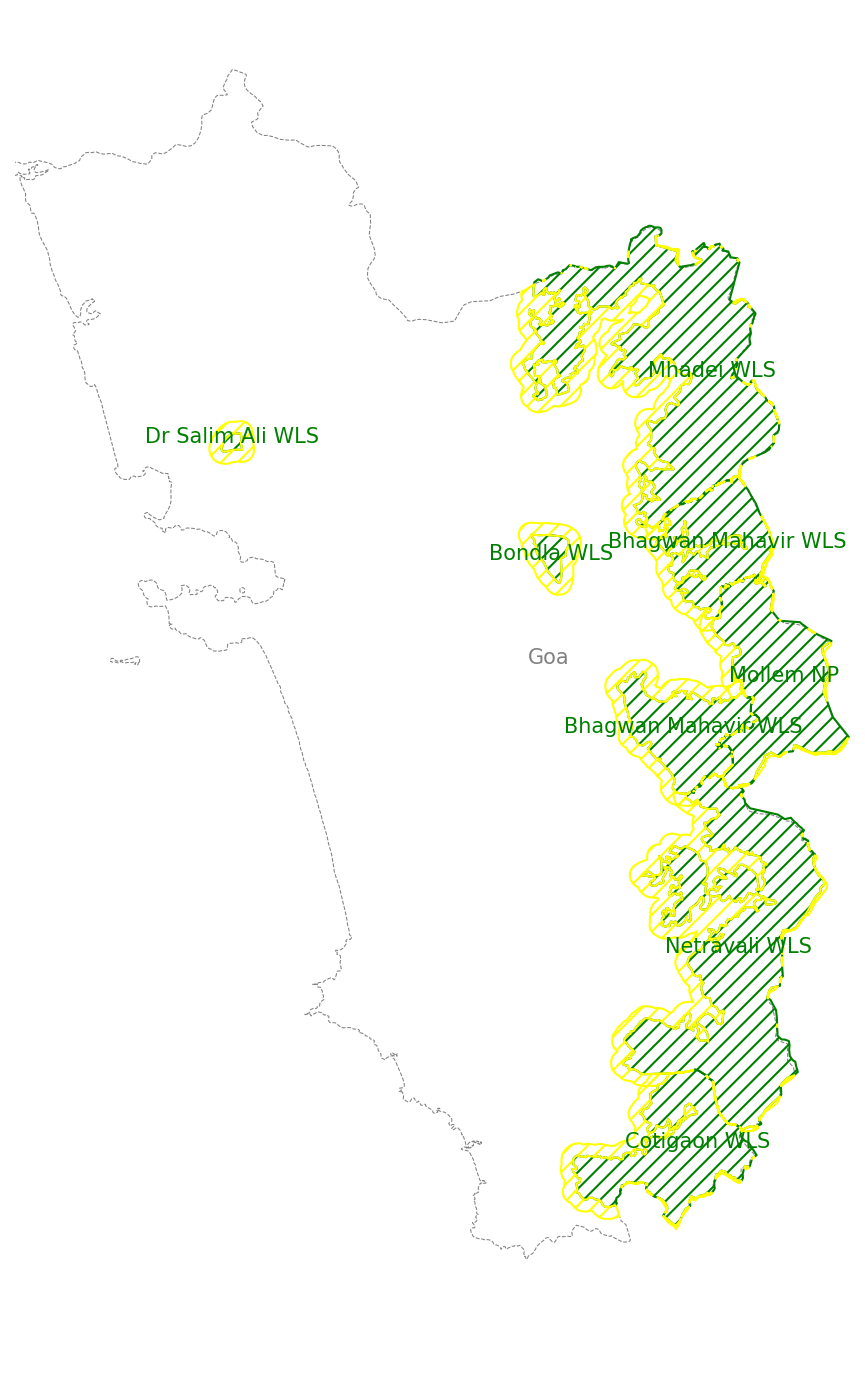
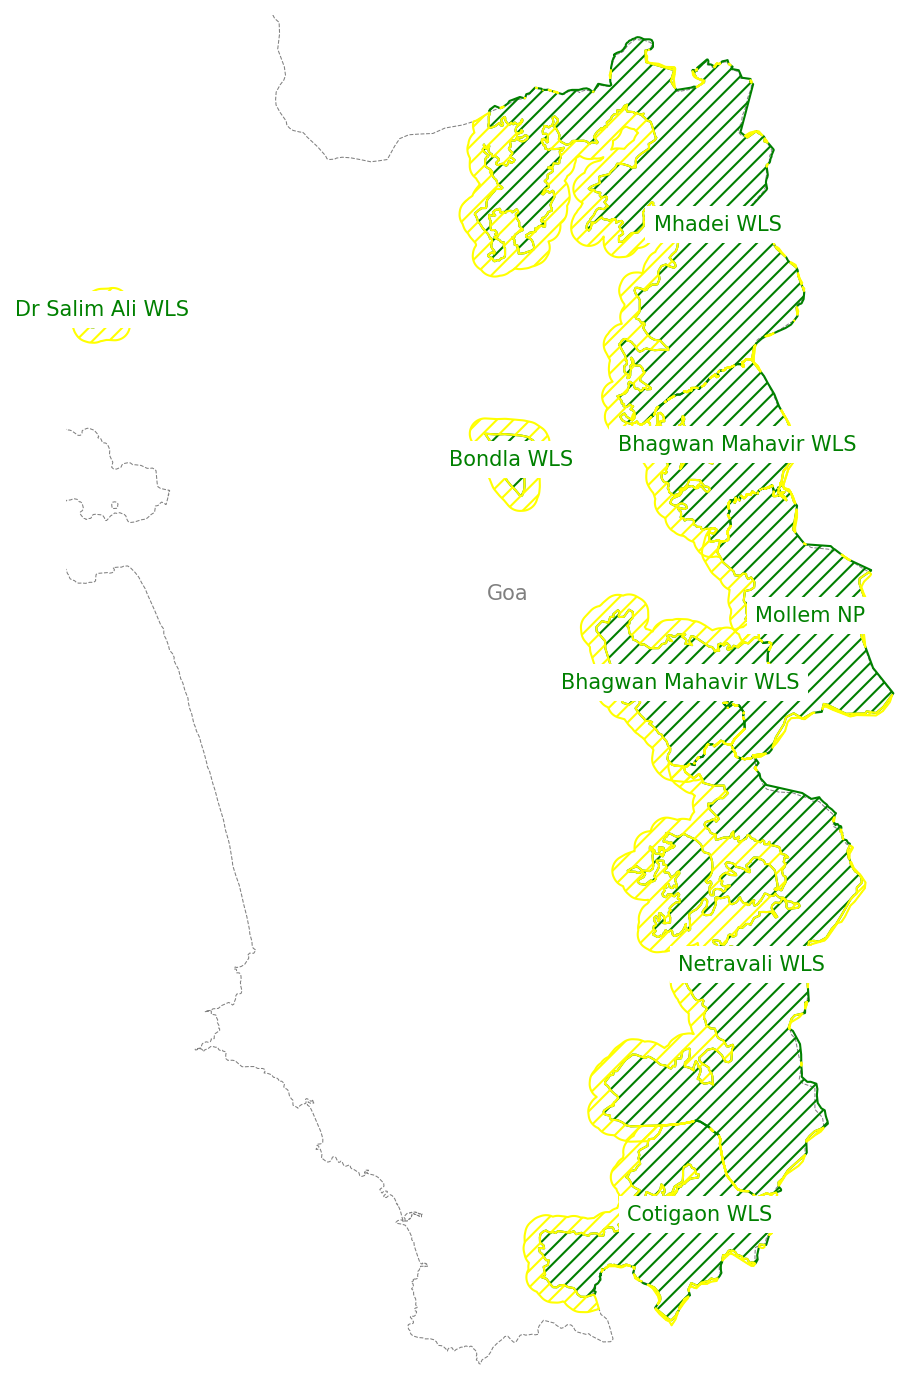
Added all PA & buffer maps and methods for generating them. On branch main Your branch is up to date with 'origin/main'.
Changes to be committed:
	modified:   methods.md
	new file:   pngs/0_Mhadei_WLS.png
	new file:   pngs/1_Bhagwan_Mahavir_WLS.png
	new file:   pngs/2_Mollem_NP.png
	new file:   pngs/3_Bhagwan_Mahavir_WLS.png
	new file:   pngs/4_Bondla_WLS.png
	new file:   pngs/5_Netravali_WLS.png
	new file:   pngs/6_Cotigaon_WLS.png
	new file:   pngs/7_Dr_Salim_Ali_WLS.png
	modified:   pngs/state_wide_pas_buffers.png

diff --git a/methods.md b/methods.md
@@ -4,10 +4,18 @@ The following data preparation was done in Python using the following packages a
 
 - geopandas
 - matplotlib
+- glob
 
 I used the interactive shell IPython as it allows for a richer visual experience and provides methods for previewing maps and graphs.
 
-## 1 - Protected area, buffer & village polygons
+Data is drawn from:
+
+- _Who made the PA polygons?_
+- [the SHRUG](https://www.devdatalab.org/shrug)
+
+## 1 - Protected area, buffer & village/town polygons
+
+### 1.1 - Protected area & buffer polygons
 
 In order to capture meaningful land cover changes we first need to create useful polygons to define areas of interest. I started with the shapefile "Notified_PA_Goa" created by \_\_\_\_ for each of the 7 notified protected areas:
 
@@ -23,30 +31,30 @@ In order to capture meaningful land cover changes we first need to create useful
 \* as per the shapefile Bhagwan Mahavir Wildlife Sanctuary is made up of 2 non-contiguous polygons. They will be treated independently for this analysis.
 
 ```
-In [1]: import geopandas as gp
+import geopandas as gp
 
-In [2]: pas = gp.read_file('data/Goa_protected_areas/Notified_PA_Goa.shp')
+pas = gp.read_file('data/Goa_protected_areas/Notified_PA_Goa.shp')
 
-In [3]: pas.columns.to_list()
+pas.columns.to_list()
 Out[3]: ['Shape_Leng', 'Shape_Area', 'Name', 'geometry']
 
-In [5]: pas = pas.drop(columns=['Shape_Leng', 'Shape_Area'])
+pas = pas.drop(columns=['Shape_Leng', 'Shape_Area'])
 
-In [6]: pas.Name
+pas.Name
 ```
 
 In order to consistently reference a single polygon the "Name" column of the dataset needs to be unique.
 
 ```
-In [7]: pas = pas.rename(columns={'Name': 'name'})
+pas = pas.rename(columns={'Name': 'name'})
 
-In [8]: pas = pas.reset_index()
+pas = pas.reset_index()
 
-In [9]: pas['index'] = pas['index'].astype(str)
+pas['index'] = pas['index'].astype(str)
 
-In [10]: pas['name'] = pas['index'] + '_' + pas['name'].str.replace(' ', '_').str.replace('.', '')
+pas['name'] = pas['index'] + '_' + pas['name'].str.replace(' ', '_').str.replace('.', '')
 
-In [11]: pas.name
+pas.name
 ```
 
 Since all the areas of interest lie within the state of Goa, I have chosen to use the coordinate reference system [EPSG:7779](https://spatialreference.org/ref/epsg/7779/).
@@ -54,17 +62,17 @@ Since all the areas of interest lie within the state of Goa, I have chosen to us
 The "geometry" column represents the boundaries of the PAs not including the 1,000 m buffers. Therefore, the buffers would be the set of polygons extending from the current geometry columns outward 1,000 m. The polygons include a Z axis which is not relevant for the current analysis.
 
 ```
-In [12]: pas = pas.rename(columns={'geometry': 'pa'})
+pas = pas.rename(columns={'geometry': 'pa'})
 
-In [13]: pas['pa'] = pas['pa'].force_2d()
+pas['pa'] = pas['pa'].force_2d()
 
-In [14]: pas = pas.set_geometry('pa')
+pas = pas.set_geometry('pa')
 
-In [15]: pas = pas.to_crs('EPSG:7779')
+pas = pas.to_crs('EPSG:7779')
 
-In [16]: pas['buffer'] = pas['pa'].buffer(1000)
+pas['buffer'] = pas['pa'].buffer(1000)
 
-In [17]: pas['buffer'] = pas['buffer'].difference(pas['pa'])
+pas['buffer'] = pas['buffer'].difference(pas['pa'])
 ```
 
 The buffers constructed above do not take into account the fact that most of the PAs are contiguous and along Goa's eastern border. The buffers overlap each other, other PAs or fall outside the state. They need to be clipped account for these inconsistencies.
@@ -72,18 +80,18 @@ The buffers constructed above do not take into account the fact that most of the
 The state's boundaries are taken from [the SHRUG](https://www.devdatalab.org/shrug) and preprocessed to include only the polygon representing Goa in the correct CRS.
 
 ```
-In [17]: state = gp.read_feather('feathers/admin_units/state.feather')
+state = gp.read_feather('feathers/admin_units/state.feather')
 
-In [18]: state.index.names
+state.index.names
 
-In [19]: state.columns.to_list()
+state.columns.to_list()
 
-In [20]: pas['buffer'] = pas['buffer'].intersection(state.loc['30', 'geometry'])
+pas['buffer'] = pas['buffer'].intersection(state.loc['30', 'geometry'])
 
-In [21]: pa_polygon_list = pas['pa'].to_list()
+pa_polygon_list = pas['pa'].to_list()
 
-In [22]: for pa_polygon in pa_polygon_list:
-     ...:     pas['buffer'] = pas['buffer'].difference(pa_polygon)
+for pa_polygon in pa_polygon_list:
+     pas['buffer'] = pas['buffer'].difference(pa_polygon)
 ```
 
 **ISSUE** The buffers also intersect with themselves. For any analysis done on a per PA basis this will not have an impact. However, any analysis done on a state-wide basis will include some double counting for the area within the intersection of the buffers.
@@ -91,36 +99,92 @@ In [22]: for pa_polygon in pa_polygon_list:
 Mapping these polygons give the follwing state-wide and per PA maps.
 
 ```
-In [23]: import matplotlib.pyplot as plt
+import matplotlib.pyplot as plt
 
-In [24]: fig, ax = plt.subplots(layout="tight", num='State-wide')
+fig, ax = plt.subplots(layout='tight', num='State-wide')
 
-In [25]: plt.axis('off')
+plt.axis('off')
 
-In [26]: state.plot(ax=ax, linewidth=0.5, ec="grey", fc="none", linestyle="--")
+state.plot(ax=ax, linewidth=0.5, ec='grey', fc='none', linestyle='--')
 
-In [27]: ax.annotate(text='Goa', xy=state.loc['30'].geometry.representative_point().coords[0], ha="center", wrap=True, color="grey", fontsize='medium')
+ax.annotate(text='Goa', xy=state.loc['30'].geometry.representative_point().coords[0], ha='center', wrap=True, color='grey', fontsize='medium', bbox={'fc':'white', 'ec':'none'})
 
-In [28]: pas['pa'].plot(ax=ax, fc='none', ec='green', hatch="///")
+pas['pa'].plot(ax=ax, fc='none', ec='green', hatch='///')
 
-In [29]: pas['buffer'].plot(ax=ax, fc='none', ec='yellow', hatch="///")
+pas['buffer'].plot(ax=ax, fc='none', ec='yellow', hatch='///')
 
-In [30]: def add_names(row):
-    ...:     text = ' '.join(row['name'].split('_')[1:])
-    ...:     pa = gp.GeoSeries(row.pa)
-    ...:     rep_point = pa.representative_point().get_coordinates().values[0]
-    ...:     ax.annotate(
-    ...:         text=text,
-    ...:         xy=(rep_point[0], rep_point[1]),
-    ...:         ha="center",
-    ...:         wrap=True,
-    ...:         color="green",
-    ...:         fontsize="medium",
-    ...:     )
+def add_names(row):
+    text = ' '.join(row['name'].split('_')[1:])
+    pa = gp.GeoSeries(row.pa)
+    rep_point = pa.representative_point().get_coordinates().values[0]
+    ax.annotate(
+        text=text,
+        xy=(rep_point[0], rep_point[1]),
+        ha='center',
+        wrap=True,
+        color='green',
+        fontsize='medium',
+        bbox={
+            'fc':'white',
+            'ec':'none',
+        },
+    )
 
-In [31]: pas.apply(add_names, axis=1)
+pas.apply(add_names, axis=1)
 
-In [32]: fig.savefig('state_wide_pas_buffers.png', dpi=150, format="png", bbox_inches="tight")
+// Uncomment below to save the state-wide png
+// fig.savefig('pngs/state_wide_pas_buffers.png', dpi=150, format='png', bbox_inches='tight')
+
+filenames = ('pngs/' + pas['name'] + '.png').to_list()
+
+pa_names = [' '.join(name_parts[1:]) for name_parts in pas['name'].str.split('_').to_list()]
+
+pa_polygons = pas['pa'].to_list()
+
+buffer_polygons = pas['buffer'].to_list()
+
+figs = []
+
+for pa, buffer, name, fname in zip(pa_polygons, buffer_polygons, pa_names, filenames):
+    fig, ax = plt.subplots(layout="tight", num=fname)
+    plt.axis("off")
+    pa_gp = gp.GeoSeries(pa)
+    pa_gp.plot(ax=ax, fc='none', ec='green', hatch='///')
+    gp.GeoSeries(buffer).plot(ax=ax, fc='none', ec='yellow', hatch='///')
+    rep_point = pa_gp.representative_point().get_coordinates().values[0]
+    ax.annotate(
+        text=name,
+        xy=(rep_point[0], rep_point[1]),
+        ha='center',
+        wrap=True,
+        color='green',
+        fontsize='medium',
+        bbox={
+            'fc':'white',
+            'ec':'none',
+        },
+    )
+    figs.append(fig)
+
+// Uncomment below to save all individual PA and buffer maps
+// for fig, fname in zip(figs, filenames):
+    fig.savefig(fname, dpi=150, format='png', bbox_inches='tight')
 ```
 
 ![State-wide PAs & buffers](pngs/state_wide_pas_buffers.png)
+![Mhadei WLS PA & buffer](pngs/0_Mhadei_WLS.png)
+![Bhagwan Mahavir (N) WLS PA & buffer](pngs/1_Bhagwan_Mahavir_WLS.png)
+![Mollem NP PA & buffer](pngs/2_Mollem_NP.png)
+![Bhagwan Mahavir (S) WLS PA & buffer](pngs/3_Bhagwan_Mahavir_WLS.png)
+![Bondla WLS PA & buffer](pngs/4_Bondla_WLS.png)
+![Netravali WLS PA & buffer](pngs/5_Netravali_WLS.png)
+![Cotigaon WLS PA & buffer](pngs/6_Cotigaon_WLS.png)
+![Dr Salim Ali WLS PA & buffer](pngs/7_Dr_Salim_Ali_WLS.png)
+
+### 1.2 - Village/town polygons
+
+Village/town polygons are taken from [the SHRUG](https://www.devdatalab.org/shrug).
+
+```
+
+```
